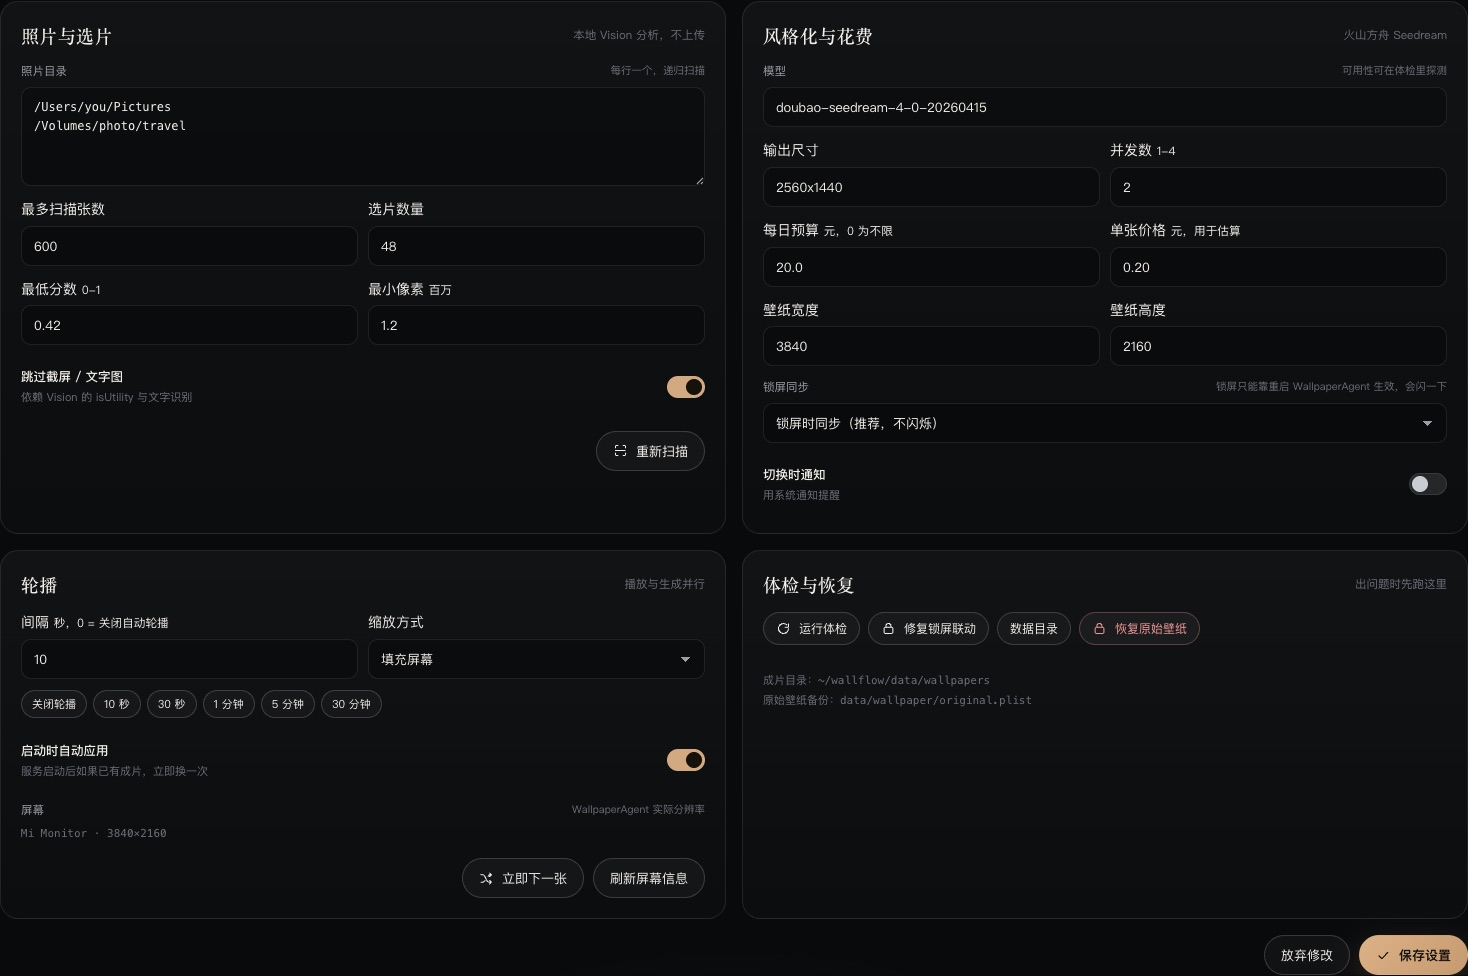
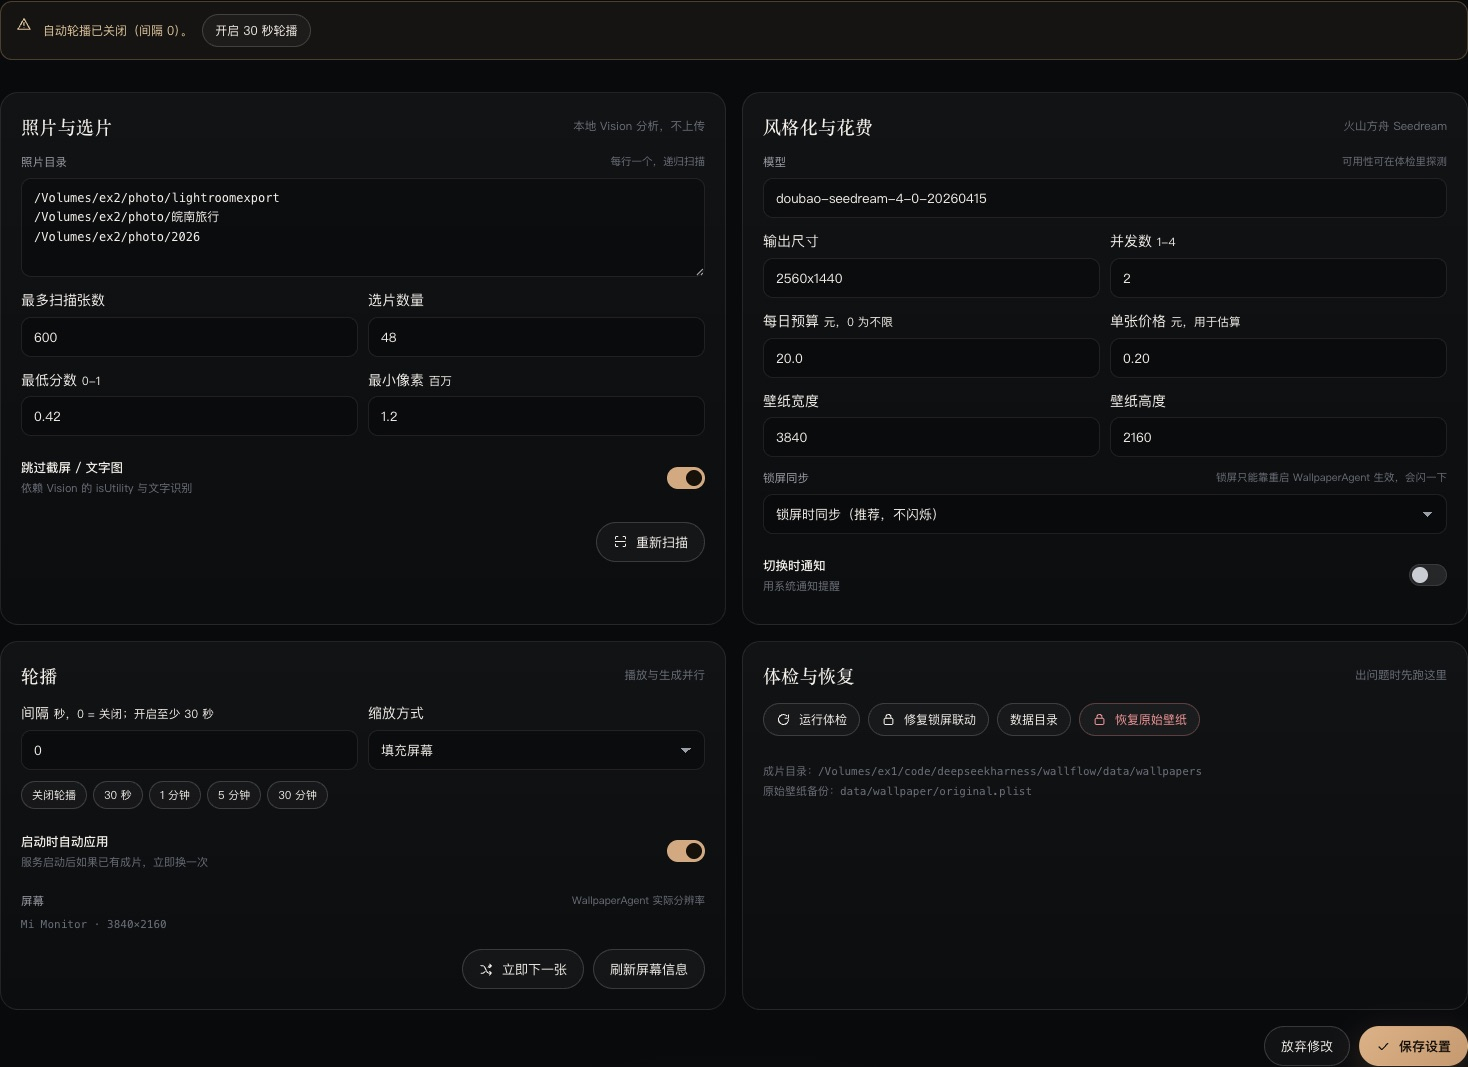
feat: default rotation off, minimum 30 seconds
- new installs start in manual mode (interval 0)
- clamp any positive interval below 30s to 30s
- remove the 10s quick option and update the manual-mode recovery
- update config examples, demo config, tests and docs

diff --git a/web/app.js b/web/app.js
@@ -256,7 +256,7 @@ function renderStatus() {
     if (d.rotation.intervalSeconds === 0) {
       rotationBtn.innerHTML = `<svg><use href="#i-play"/></svg><span>开启轮播</span>`;
       rotationBtn.disabled = false;
-      rotationBtn.title = '开启 10 秒自动轮播';
+      rotationBtn.title = '开启 30 秒自动轮播';
     } else {
       rotationBtn.innerHTML = d.rotation.enabled
         ? `<svg><use href="#i-pause"/></svg><span>暂停轮播</span>`
@@ -733,7 +733,7 @@ function settingsShell() {
   view.innerHTML = `
     ${!state.data.ark.hasKey ? `<div class="notice"><svg><use href="#i-warning"/></svg><div>还没有配置火山方舟 API Key。把密钥写进 <span class="mono">${esc(state.data.app.root)}/.secrets/volcengine.env</span>（变量名 <span class="mono">ARK_API_KEY</span>），或设置同名环境变量后重启。</div></div>` : ''}
     <form id="settingsForm" class="settings-grid">
-      ${c.rotation.intervalSeconds === 0 ? `<div class="notice" style="grid-column:1/-1"><svg><use href="#i-warning"/></svg><div>自动轮播已关闭（间隔 0）。<button type="button" class="btn ghost sm" data-action="enable-rotation" style="margin-left:10px">开启 10 秒轮播</button></div></div>` : ''}
+      ${c.rotation.intervalSeconds === 0 ? `<div class="notice" style="grid-column:1/-1"><svg><use href="#i-warning"/></svg><div>自动轮播已关闭（间隔 0）。<button type="button" class="btn ghost sm" data-action="enable-rotation" style="margin-left:10px">开启 30 秒轮播</button></div></div>` : ''}
       <div class="panel">
         <div class="panel-head"><h3>照片与选片</h3><span class="hint">本地 Vision 分析，不上传</span></div>
         <div class="field">
@@ -796,7 +796,7 @@ function settingsShell() {
       <div class="panel">
         <div class="panel-head"><h3>轮播</h3><span class="hint">播放与生成并行</span></div>
         <div class="field two">
-          <div><label>间隔 <small>秒，0 = 关闭自动轮播</small></label><input type="number" step="1" name="interval" min="0" value="${c.rotation.intervalSeconds}" /></div>
+          <div><label>间隔 <small>秒，0 = 关闭；开启至少 30 秒</small></label><input type="number" step="1" name="interval" min="0" value="${c.rotation.intervalSeconds}" /></div>
           <div><label>缩放方式</label>
             <select name="placement">
               ${[[1, '填充屏幕'], [2, '适应屏幕'], [3, '拉伸'], [4, '居中'], [5, '平铺']].map(([v, label]) => `<option value="${v}" ${c.wallpaper.placement === v ? 'selected' : ''}>${label}</option>`).join('')}
@@ -804,7 +804,7 @@ function settingsShell() {
           </div>
         </div>
         <div class="quick-row" id="quickIntervals">
-          ${[[0, '关闭轮播'], [10, '10 秒'], [30, '30 秒'], [60, '1 分钟'], [300, '5 分钟'], [1800, '30 分钟']]
+          ${[[0, '关闭轮播'], [30, '30 秒'], [60, '1 分钟'], [300, '5 分钟'], [1800, '30 分钟']]
             .map(([v, label]) => `<button type="button" class="btn ghost sm" data-quick="${v}">${label}</button>`).join('')}
         </div>
         <div class="field row">
@@ -992,9 +992,9 @@ async function enableRotation() {
   await api('/api/settings', {
     method: 'POST',
     headers: { 'Content-Type': 'application/json' },
-    body: JSON.stringify({ rotation: { intervalSeconds: 10 } }),
+    body: JSON.stringify({ rotation: { intervalSeconds: 30 } }),
   });
-  toast('已开启自动轮播（10 秒一张）', 'ok');
+  toast('已开启自动轮播（30 秒一张）', 'ok');
   await refreshState();
   if (state.tab === 'settings') settingsShell();
 }

diff --git a/README.md b/README.md
@@ -105,7 +105,7 @@ npm start
 
 1. 点右上角 **开始生成**（或英雄区「开始生成第一张」）；
 2. 第一张成片完成后自动成为桌面 + 锁屏壁纸；
-3. 之后按设定间隔换一张（默认 30 分钟，可调到 10 秒；设为 0 则关闭自动轮播）；
+3. 默认不自动轮播；需要时设 30 秒或更长的间隔，设为 0 则关闭；
 4. 随时可以「下一张」（快捷键 `N`）「暂停轮播」「暂停生成」，互不影响。
 
 ---
@@ -212,7 +212,7 @@ dHash 距离 ≤5 视为连拍/重复，只保留分高的一张。
 
 ---
 
-## 换壁纸：10 秒一张，而且不闪
+## 换壁纸：30 秒起一张，而且不闪
 
 macOS 有两条完全不同的换壁纸通道，本项目两条都用：
 
@@ -242,7 +242,7 @@ defaults read com.apple.wallpaper useAsDesktopWallpaperAndIdleWallpaper
 
 轮播流程：
 
-1. 每 N 秒用 `NSWorkspace` 换桌面（默认 10 秒，最小 5 秒）；
+1. 每 N 秒用 `NSWorkspace` 换桌面（默认关闭自动轮播；开启时最小 30 秒）；
 2. 同时把同一张图写进 `Idle`（不重启 agent），保证锁屏配置与桌面一致；
 3. 检测到屏幕锁定/休眠时暂停轮播，并在**锁定瞬间**重启一次 WallpaperAgent，
    让锁屏重新读取最新 `Idle`——这一下闪烁发生在锁屏过程中；
@@ -270,7 +270,7 @@ defaults read com.apple.wallpaper useAsDesktopWallpaperAndIdleWallpaper
 
 | 模式 | 行为 | 适合 |
 | --- | --- | --- |
-| `on-lock`（默认） | 桌面与锁屏联动，锁定时读取最新桌面 | 10 秒级快速轮播 |
+| `on-lock`（默认） | 桌面与锁屏联动，锁定时读取最新桌面 | 30 秒级快速轮播 |
 | `each` | 每次换壁纸都重启 agent 同步锁屏 | 调试/慢轮播（短间隔会闪） |
 | `off` | 只换桌面，锁屏保持原样 | 不想动锁屏 |
 
@@ -311,8 +311,8 @@ defaults read com.apple.wallpaper useAsDesktopWallpaperAndScreenSaverWallpaper
 打开后：
 
 - 每次屏保启动时，取**当前桌面壁纸**作为屏保画面；
-- 桌面每 10 秒轮播，所以每次进屏保看到的 AI 成片会不同；
-- 屏保**运行期间**不会每 10 秒跳一张——系统只在启动时取一次画面。要做到这一点需要
+- 桌面每 30 秒轮播，所以每次进屏保看到的 AI 成片会不同；
+- 屏保**运行期间**不会每 30 秒跳一张——系统只在启动时取一次画面。要做到这一点需要
   自建视频壁纸扩展（类似 Aerial 4），属于后续工作，不是改 plist 能解决的；
 - 如果你的屏保仍然是固定的 Aerial 风景，到「系统设置 → 屏保」里选择「当前壁纸/随机」，
   或关掉屏保；`npm run doctor` 会显示桌面/锁屏/屏保的联动状态。
@@ -375,7 +375,7 @@ tail -f data/daemon.log
 | `ark.priceCents` | 20 | 单张估算成本（分），只用于预算 |
 | `ark.dailyBudgetCents` | 800 | 每日预算（分），到点自动暂停 |
 | `output.width/height` | 3840×2160 | 最终壁纸分辨率（从模型输出 Lanczos 放大） |
-| `rotation.intervalSeconds` | 1800 | 轮播间隔（秒）；0 = 关闭自动轮播，只用「下一张」手动切换 |
+| `rotation.intervalSeconds` | 0 | 轮播间隔（秒）；0 = 默认关闭自动轮播；开启时最小 30 秒 |
 | `rotation.applyOnStart` | true | 启动后是否立即应用第一张 |
 | `wallpaper.lockScreenMode` | on-lock | on-lock 锁屏时同步 / each 每次都同步（会闪）/ off 仅桌面 |
 | `wallpaper.placement` | 1 | 0 自动 / 1 填充 / 2 适应 / 3 拉伸 / 4 居中 / 5 平铺 |
@@ -417,10 +417,10 @@ npm run doctor
 | --- | --- |
 | 扫描 0 张 | 目录未挂载 / 扩展名不支持 / `scan.maxFiles` 太小；看日志 |
 | 全部「无法解码」 | 空文件或损坏文件；本工具已跳过 <1KB，仍失败会打印文件名 |
-| 首次启动很慢 | 正在 `swiftc` 编译两个原生小工具（约 5-10 秒，之后复用） |
+| 首次启动很慢 | 正在 `swiftc` 编译两个原生小工具（约 5-30 秒，之后复用） |
 | 锁屏没变 | 默认只在锁屏时同步；想每次都变把 `lockScreenMode` 改成 `each`；并检查完全磁盘访问权限 |
 | 桌面没变 | 快速通道失败会回退到 plist 方式；看日志与 `wallflow doctor` |
-| 10 秒一张会闪 | 锁屏同步模式改回 `on-lock`（默认），不要用 `each` |
+| 30 秒起一张会闪 | 锁屏同步模式改回 `on-lock`（默认），不要用 `each` |
 | 模型报 404 | 用 `doctor --probe` 确认模型是否开通；换 `fallbackModels` 里的模型 |
 | 生成很慢 / 429 | 把 `ark.concurrency` 调到 1，或换 `seedream-5-0-flash` |
 | 人物变脸 | 降低风格强度/换「胶片」这类轻风格；提示词已要求保留面部，但模型仍有随机性 |
